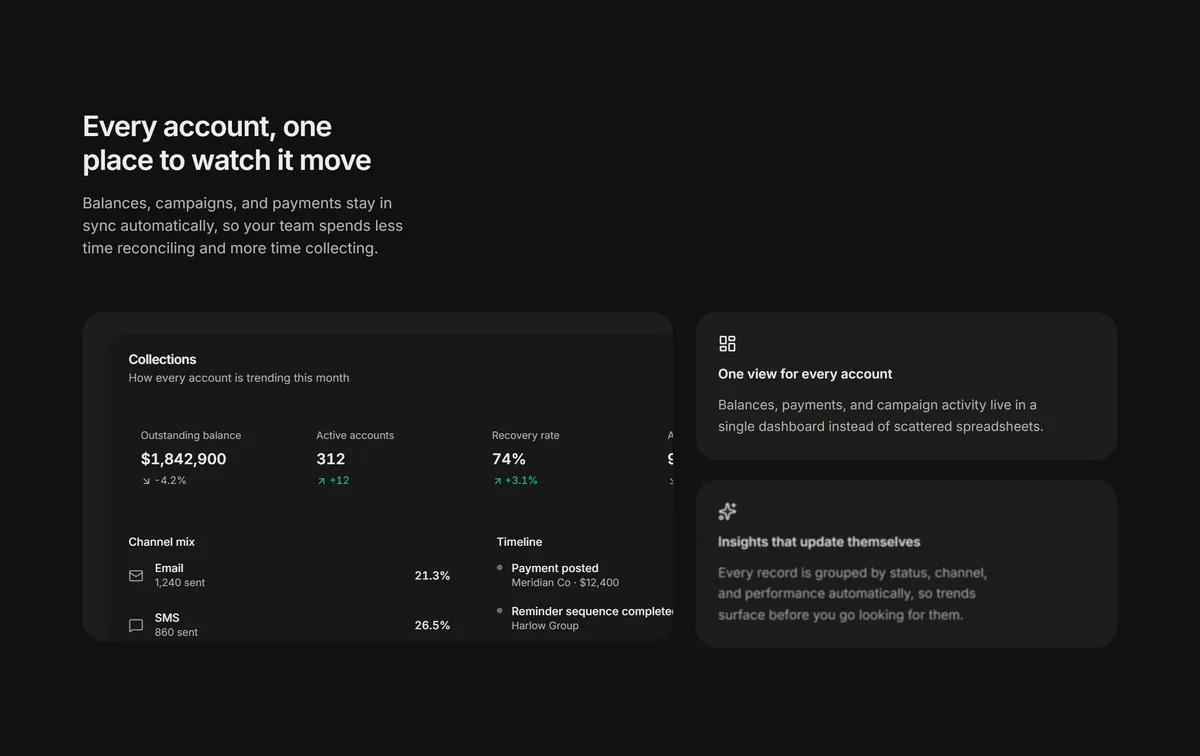
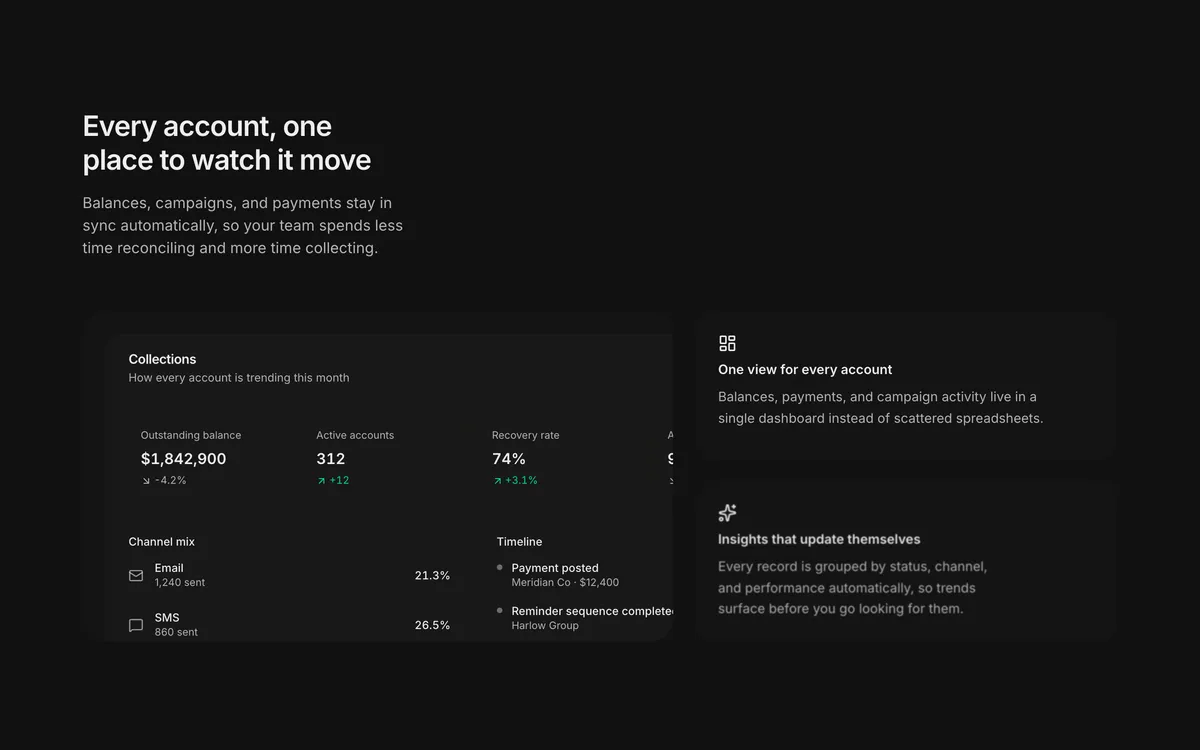
fix: polish content-11 feature cards and sync content registry output
Softens feature card backgrounds for light/dark, tightens card gap,
and collapses a wrapped heading. Also syncs public/r/registry.json,
content-10.json and content-11.json with current source (content-10's
build output had drifted since #55).

diff --git a/registry/blocks/content/content-11/content-11.tsx b/registry/blocks/content/content-11/content-11.tsx
@@ -36,7 +36,7 @@ const variantStyles = {
     frame: 'h-72 sm:h-80 lg:h-[22rem]',
     peek: 'absolute top-6 left-6 w-[125%] max-w-none overflow-hidden rounded-2xl',
     features: 'gap-4 sm:gap-5',
-    featureCard: 'gap-3 p-6',
+    featureCard: 'gap-2 p-6',
     icon: 'size-5',
   },
   compact: {
@@ -89,7 +89,10 @@ function FeatureCard({
   className: string
   iconClassName: string
 }>) {
-  const cardClassName = cn('bg-secondary flex h-full flex-col rounded-3xl', className)
+  const cardClassName = cn(
+    'bg-secondary/70 dark:bg-secondary/30 flex h-full flex-col rounded-3xl',
+    className,
+  )
 
   const content = (
     <>
@@ -99,9 +102,7 @@ function FeatureCard({
           className={cn('text-foreground', iconClassName)}
         />
       )}
-      <h3 className="text-foreground text-sm font-semibold">
-        {feature.title}
-      </h3>
+      <h3 className="text-foreground text-sm font-semibold">{feature.title}</h3>
       <p className="text-muted-foreground text-sm leading-relaxed">
         <Balancer>{feature.description}</Balancer>
       </p>
@@ -170,7 +171,7 @@ export function Content11({
   const mediaElement = media && (
     <div
       className={cn(
-        'bg-secondary relative w-full overflow-hidden rounded-3xl',
+        'bg-secondary/70 dark:bg-secondary/30 relative w-full overflow-hidden rounded-3xl',
         vs.frame,
       )}
     >
